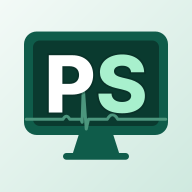
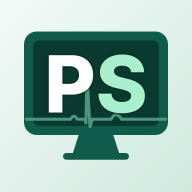
Icono: QRS a 20 unidades de la onda P
Se acerca el complejo QRS del latido del icono a la onda P, de 30 a 20
unidades. La P y la T no se mueven. Se regeneran los PNG de la web y los
mipmap de Android.

Claude-Session: https://claude.ai/code/session_01R6CL9Y27hc3y3V93YZZEj1

Changed region(s): [[0.3125, 0.4688, 0.5, 0.6875], [0.5625, 0.5938, 0.6562, 0.6562]]

diff --git a/propuestas/icono_ps_monitor.html b/propuestas/icono_ps_monitor.html
@@ -6,7 +6,7 @@
 <p class="sub">Maqueta sin aplicar. Cinco propuestas con los colores de la nueva imagen (verde de la cabecera, menta y el trazo del latido). Cada una se ve como icono cuadrado redondeado (iPhone/iPad), recortado en círculo (Android) y a tamaño pequeño de pantalla de inicio.</p>
 <div class="grid"><section class="card"><h2>A · Monitor de fondo, latido detrás de las letras</h2><div class="row"><div class="ic sq"><svg viewBox="0 0 512 512" xmlns="http://www.w3.org/2000/svg"><defs><linearGradient id="gA" x1="0" y1="0" x2="1" y2="1"><stop offset="0" stop-color="#168066"/><stop offset="1" stop-color="#0a3a2f"/></linearGradient><filter id="bA" x="-20%" y="-20%" width="140%" height="140%"><feGaussianBlur stdDeviation="6"/></filter></defs><rect width="512" height="512" fill="url(#gA)"/><rect x="64" y="84" width="384" height="276" rx="34" fill="#0a2f27" stroke="#a8f0cd" stroke-opacity=".35" stroke-width="10"/><path d="M90 112 V332" stroke="#a8f0cd" stroke-opacity=".07" stroke-width="2"/><path d="M150 112 V332" stroke="#a8f0cd" stroke-opacity=".07" stroke-width="2"/><path d="M210 112 V332" stroke="#a8f0cd" stroke-opacity=".07" stroke-width="2"/><path d="M270 112 V332" stroke="#a8f0cd" stroke-opacity=".07" stroke-width="2"/><path d="M330 112 V332" stroke="#a8f0cd" stroke-opacity=".07" stroke-width="2"/><path d="M390 112 V332" stroke="#a8f0cd" stroke-opacity=".07" stroke-width="2"/><path d="M92 138 H420" stroke="#a8f0cd" stroke-opacity=".07" stroke-width="2"/><path d="M92 186 H420" stroke="#a8f0cd" stroke-opacity=".07" stroke-width="2"/><path d="M92 234 H420" stroke="#a8f0cd" stroke-opacity=".07" stroke-width="2"/><path d="M92 282 H420" stroke="#a8f0cd" stroke-opacity=".07" stroke-width="2"/>
 <path d="M214 360 h84 l16 50 h-116z" fill="#0a2f27" stroke="#a8f0cd" stroke-opacity=".35" stroke-width="10" stroke-linejoin="round"/>
-<rect x="168" y="408" width="176" height="16" rx="8" fill="#a8f0cd" fill-opacity=".35"/><path d="M70 318 H168 q9 -16 18 0 H216 l3 8 l3 -92 l8 110 l6 -26 H286 q14 -24 28 0 H442" fill="none" stroke="#4c967d" stroke-width="9" stroke-linecap="round" stroke-linejoin="round"/><text x="256" y="312" text-anchor="middle" font-family="Inter,system-ui,-apple-system,Segoe UI,Roboto,sans-serif" font-weight="800" font-size="250" letter-spacing="-8" stroke="#06241d" stroke-opacity=".35" stroke-width="10" paint-order="stroke" ><tspan fill="#ffffff">P</tspan><tspan fill="#a8f0cd">S</tspan></text></svg></div><div class="ic ci"><svg viewBox="0 0 512 512" xmlns="http://www.w3.org/2000/svg"><defs><linearGradient id="gA" x1="0" y1="0" x2="1" y2="1"><stop offset="0" stop-color="#168066"/><stop offset="1" stop-color="#0a3a2f"/></linearGradient><filter id="bA" x="-20%" y="-20%" width="140%" height="140%"><feGaussianBlur stdDeviation="6"/></filter></defs><rect width="512" height="512" fill="url(#gA)"/><rect x="64" y="84" width="384" height="276" rx="34" fill="#0a2f27" stroke="#a8f0cd" stroke-opacity=".35" stroke-width="10"/><path d="M90 112 V332" stroke="#a8f0cd" stroke-opacity=".07" stroke-width="2"/><path d="M150 112 V332" stroke="#a8f0cd" stroke-opacity=".07" stroke-width="2"/><path d="M210 112 V332" stroke="#a8f0cd" stroke-opacity=".07" stroke-width="2"/><path d="M270 112 V332" stroke="#a8f0cd" stroke-opacity=".07" stroke-width="2"/><path d="M330 112 V332" stroke="#a8f0cd" stroke-opacity=".07" stroke-width="2"/><path d="M390 112 V332" stroke="#a8f0cd" stroke-opacity=".07" stroke-width="2"/><path d="M92 138 H420" stroke="#a8f0cd" stroke-opacity=".07" stroke-width="2"/><path d="M92 186 H420" stroke="#a8f0cd" stroke-opacity=".07" stroke-width="2"/><path d="M92 234 H420" stroke="#a8f0cd" stroke-opacity=".07" stroke-width="2"/><path d="M92 282 H420" stroke="#a8f0cd" stroke-opacity=".07" stroke-width="2"/>
+<rect x="168" y="408" width="176" height="16" rx="8" fill="#a8f0cd" fill-opacity=".35"/><path d="M70 318 H188 q9 -16 18 0 H226 l3 10 l3 -120 l8 130 l6 -20 H296 q14 -24 28 0 H442" fill="none" stroke="#4c967d" stroke-width="9" stroke-linecap="round" stroke-linejoin="round"/><text x="256" y="312" text-anchor="middle" font-family="Inter,system-ui,-apple-system,Segoe UI,Roboto,sans-serif" font-weight="800" font-size="250" letter-spacing="-8" stroke="#06241d" stroke-opacity=".35" stroke-width="10" paint-order="stroke" ><tspan fill="#ffffff">P</tspan><tspan fill="#a8f0cd">S</tspan></text></svg></div><div class="ic ci"><svg viewBox="0 0 512 512" xmlns="http://www.w3.org/2000/svg"><defs><linearGradient id="gA" x1="0" y1="0" x2="1" y2="1"><stop offset="0" stop-color="#168066"/><stop offset="1" stop-color="#0a3a2f"/></linearGradient><filter id="bA" x="-20%" y="-20%" width="140%" height="140%"><feGaussianBlur stdDeviation="6"/></filter></defs><rect width="512" height="512" fill="url(#gA)"/><rect x="64" y="84" width="384" height="276" rx="34" fill="#0a2f27" stroke="#a8f0cd" stroke-opacity=".35" stroke-width="10"/><path d="M90 112 V332" stroke="#a8f0cd" stroke-opacity=".07" stroke-width="2"/><path d="M150 112 V332" stroke="#a8f0cd" stroke-opacity=".07" stroke-width="2"/><path d="M210 112 V332" stroke="#a8f0cd" stroke-opacity=".07" stroke-width="2"/><path d="M270 112 V332" stroke="#a8f0cd" stroke-opacity=".07" stroke-width="2"/><path d="M330 112 V332" stroke="#a8f0cd" stroke-opacity=".07" stroke-width="2"/><path d="M390 112 V332" stroke="#a8f0cd" stroke-opacity=".07" stroke-width="2"/><path d="M92 138 H420" stroke="#a8f0cd" stroke-opacity=".07" stroke-width="2"/><path d="M92 186 H420" stroke="#a8f0cd" stroke-opacity=".07" stroke-width="2"/><path d="M92 234 H420" stroke="#a8f0cd" stroke-opacity=".07" stroke-width="2"/><path d="M92 282 H420" stroke="#a8f0cd" stroke-opacity=".07" stroke-width="2"/>
 <path d="M214 360 h84 l16 50 h-116z" fill="#0a2f27" stroke="#a8f0cd" stroke-opacity=".35" stroke-width="10" stroke-linejoin="round"/>
 <rect x="168" y="408" width="176" height="16" rx="8" fill="#a8f0cd" fill-opacity=".35"/><path d="M70 318 H128 q9 -16 18 0 H188 l8 12 l14 -92 l12 118 l9 -38 H262 q12 -22 24 0 H442" fill="none" stroke="#4c967d" stroke-width="9" stroke-linecap="round" stroke-linejoin="round"/><text x="256" y="312" text-anchor="middle" font-family="Inter,system-ui,-apple-system,Segoe UI,Roboto,sans-serif" font-weight="800" font-size="250" letter-spacing="-8" stroke="#06241d" stroke-opacity=".35" stroke-width="10" paint-order="stroke" ><tspan fill="#ffffff">P</tspan><tspan fill="#a8f0cd">S</tspan></text></svg></div><div class="sm"><div class="ic sq s48"><svg viewBox="0 0 512 512" xmlns="http://www.w3.org/2000/svg"><defs><linearGradient id="gA" x1="0" y1="0" x2="1" y2="1"><stop offset="0" stop-color="#168066"/><stop offset="1" stop-color="#0a3a2f"/></linearGradient><filter id="bA" x="-20%" y="-20%" width="140%" height="140%"><feGaussianBlur stdDeviation="6"/></filter></defs><rect width="512" height="512" fill="url(#gA)"/><rect x="64" y="84" width="384" height="276" rx="34" fill="#0a2f27" stroke="#a8f0cd" stroke-opacity=".35" stroke-width="10"/><path d="M90 112 V332" stroke="#a8f0cd" stroke-opacity=".07" stroke-width="2"/><path d="M150 112 V332" stroke="#a8f0cd" stroke-opacity=".07" stroke-width="2"/><path d="M210 112 V332" stroke="#a8f0cd" stroke-opacity=".07" stroke-width="2"/><path d="M270 112 V332" stroke="#a8f0cd" stroke-opacity=".07" stroke-width="2"/><path d="M330 112 V332" stroke="#a8f0cd" stroke-opacity=".07" stroke-width="2"/><path d="M390 112 V332" stroke="#a8f0cd" stroke-opacity=".07" stroke-width="2"/><path d="M92 138 H420" stroke="#a8f0cd" stroke-opacity=".07" stroke-width="2"/><path d="M92 186 H420" stroke="#a8f0cd" stroke-opacity=".07" stroke-width="2"/><path d="M92 234 H420" stroke="#a8f0cd" stroke-opacity=".07" stroke-width="2"/><path d="M92 282 H420" stroke="#a8f0cd" stroke-opacity=".07" stroke-width="2"/>
 <path d="M214 360 h84 l16 50 h-116z" fill="#0a2f27" stroke="#a8f0cd" stroke-opacity=".35" stroke-width="10" stroke-linejoin="round"/>
